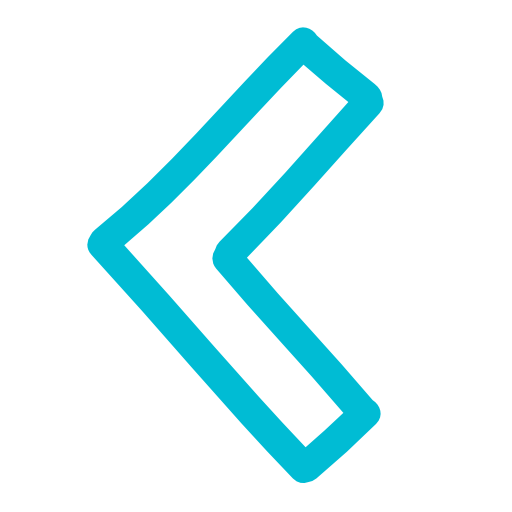
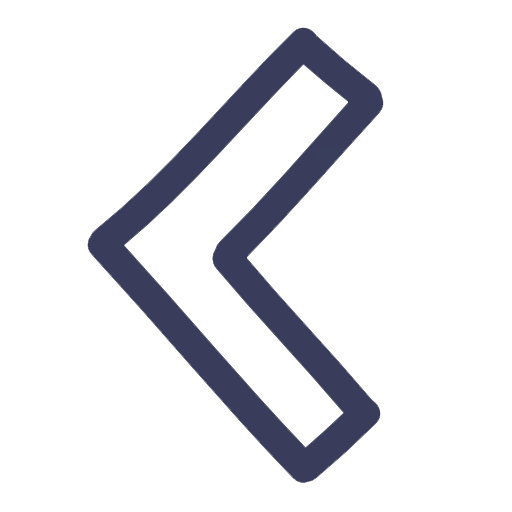
修改页面+改主题色

Changed region(s): [[0.1562, 0.0312, 0.75, 0.9375]]

diff --git a/src/components/Query.vue b/src/components/Query.vue
@@ -122,15 +122,16 @@ export default {
     margin-left: 200px;
     width:80%;
     height:3px;
-    background:rgb(000, 188, 212);
+    background:rgb(051, 069, 091);
   }
 
   #ellipse_query {
+    box-shadow: #666 0px 0px 10px;
     width: 150px;
     height: 150px;
     margin-top: 30px;
     margin-left: 150px;
-    border: 4px solid rgb(000, 188, 212);
+    border: 4px solid rgb(051, 069, 091);
     border-radius: 50%;
   }
 
@@ -152,12 +153,14 @@ export default {
     margin-left: 450px;
     height: 40px;
     width: 60%;
-    color: rgb(000, 188, 212);
+    color: rgb(051, 069, 091);
     font-size: 40px;
     font-family: Roboto;
     margin-top: 30px;
   }
   #table_type_query {
+    background-image: url('../assets/bg3.jpeg');
+    background-size:cover;
     margin-top: 40px;
     margin-left: 100px;
     background-color: white;
@@ -165,9 +168,10 @@ export default {
     height: 600px;
     width: 20%;
     box-shadow: #666 0px 0px 10px;
-    border:  3px solid rgb(000, 188, 212);
+    border:  3px solid rgb(051, 069, 091);
   }
   #tableInfo {
+    background-image: url('../assets/bg1.png');
     margin-top: 40px;
     margin-left: 350px;
     background-color: white;
@@ -175,9 +179,10 @@ export default {
     height: 600px;
     width: 20%;
     box-shadow: #666 0px 0px 10px;
-    border:  3px solid rgb(000, 188, 212);
+    border:  3px solid rgb(051, 069, 091);
   }
   #table_food_query {
+    background-image: url('../assets/bg2.jpeg');
     margin-top: 40px;
     margin-left: 100px;
     background-color: white;
@@ -185,13 +190,14 @@ export default {
     height: 600px;
     width: 20%;
     box-shadow: #666 0px 0px 10px;
-    border:  3px solid rgb(000, 188, 212);
+    border:  3px solid rgb(051, 069, 091);
   }
   #deleteIcon{
     width: 30px;
   }
   #tableMem {
-    color: rgb(000, 188, 212);
+    text-shadow: #666 0px 0px 10px;
+    color: rgb(051, 069, 091);
     font-size: 35px;
     font-family: Roboto;
     margin-top: 50px;
@@ -199,7 +205,8 @@ export default {
     text-decoration: underline;
   }
   #tableId{
-    color: rgb(000, 188, 212);
+    text-shadow: #666 0px 0px 10px;
+    color: rgb(051, 069, 091);
     font-size: 35px;
     font-family: Roboto;
     margin-top: 100px;
@@ -207,7 +214,8 @@ export default {
     text-decoration: underline;
   }
   #tableTime {
-    color: rgb(000, 188, 212);
+    text-shadow: #666 0px 0px 10px;
+    color: rgb(051, 069, 091);
     font-size: 35px;
     font-family: Roboto;
     margin-top: 50px;
@@ -215,7 +223,7 @@ export default {
     text-decoration: underline;
   }
   #tablePhone {
-    color: rgb(000, 188, 212);
+    color: rgb(051, 069, 091);
     font-size: 35px;
     font-family: Roboto;
     margin-top: 50px;
@@ -223,21 +231,24 @@ export default {
     text-decoration: underline;
   }
   #foodInfo {
+    text-shadow: #666 0px 0px 10px;
+    text-decoration: underline;
     float:left;
     margin-top: 40px;
     margin-left: -15px;
     height: 500px;
     width: 100%;
-    color:rgb(000, 188, 212);
+    color:rgb(051, 069, 091);
     font-family: Roboto;
   }
   .foodList {
+    box-shadow: #666 0px 0px 10px;
     font-size: 25px;
     margin-left: 85px;
     width: 70%;
     height: 300px;
     /*box-shadow: #666 0px 0px 5px;*/
-    border:  3px solid rgb(000, 188, 212);
+    border:  3px solid rgb(051, 069, 091);
   }
 
 </style>

diff --git a/src/components/Home.vue b/src/components/Home.vue
@@ -3,7 +3,7 @@
 <template>
     <div id="homePage" v-show="showHome">
         <el-menu theme="dark" :default-active="activeIndex" class="el-menu-home" mode="horizontal">
-            <el-menu-item index="1"><router-link to="/">主页</router-link></el-menu-item>
+            <el-menu-item index="1"><router-link to="/"><p id="topInfo_home">主页</p></router-link></el-menu-item>
             <el-menu-item index="2" :style="{float: 'right'}">
                 <router-link v-show="!user.phone" to="/">登录</router-link>
                 <el-dropdown @command="loginOut">
@@ -185,9 +185,11 @@
         padding-bottom: 30px;
     }
     #topInfo_home {
-        background-color: rgb(000, 188, 212);
-        height:130px;
-        box-shadow: #666 0px 0px 5px
+        color:white;
+        font-size:150%;
+        margin-top: 10px;
+        width:80%;
+        height:80%;
     }
     #h1_home {
         color:white;
@@ -262,8 +264,8 @@
         margin-top:0.5%;
         width:100%;
         height:1%;
-        border:solid 2px #05728a;
-        background:#05728a;
+        border:solid 2px  rgb(051, 069, 091);
+        background: rgb(051, 069, 091);
     }
     #photo-list_home {
         margin-left: 58px;
@@ -283,14 +285,13 @@
         padding-top: 50px;
         width: 40px;
         height:90px;
-
     }
     #left_home {
         float: left;
         padding-left:2px;
     }
     #right_home {
-        margin-top: -170px;
+        margin-top: -180px;
         float: right;
     }
     .pic_home {
@@ -304,15 +305,22 @@
     }
 
     #menu_home {
-        height: 300px;
+        background-image: url('../assets/bg1.png');
+        background-size:cover;
+        height: 450px;
         box-shadow: #666 0px 0px 10px;
     }
-    #homePage, #homeBottom{
-      height: 90px;
-      background-color: rgb(000, 188, 212);
+    #homePage {
+      height: 100px;
+      background-color: rgb(051, 069, 091);
+    }
+    #homeBottom{
+      background-size:cover;
+      height: 100px;
+      background-color: rgb(051, 069, 091);
     }
     #homeBottom {
-        background-color:rgb(000, 188, 255);
+        background-color:rgb(051, 069, 091);
     }
     .homeBottomInfo {
         float:left;
@@ -326,12 +334,13 @@
         float: left;
     }
     .ellipse_home {
+        box-shadow: #666 0px 0px 10px;        
         width: 80%;
         height: 250%;
-        margin-top: 0%;
+        margin-top: 15%;
         margin-bottom: 16px;
         margin-left: 7.5%;
-        border: 4px solid #05728a;
+        border: 4px solid rgb(051, 069, 091);
         border-radius: 50%;
 
     }
@@ -343,7 +352,7 @@
         vertical-align: center;
     }
     #menu__home {
-        background-color:rgb(000, 188, 212);
+        background-color:rgb(051, 069, 091);
         color:white;
         border-radius: 10px;
         width: 70%;
@@ -352,7 +361,7 @@
         margin-left:8%;
     }
     #btn_home {
-        background-color:rgb(000, 188, 255);
+        background-color:rgb(051, 069, 091);
         color:white;
         border-radius: 10px;
         width: 70%;

diff --git a/src/components/Book.vue b/src/components/Book.vue
@@ -6,7 +6,7 @@
     <div>
         <top></top>
     </div>
-
+    <div id="top_image"></div>
     <div id="time">
        <p id="timeTitle">时间</p>
        <img id="calendarIcon" src="../assets/icon/calendar.png" hspace = "5" />
@@ -126,6 +126,11 @@ export default {
     height: 400px;
     /* border: 1px solid blue; */
   }
+  #top_image {
+    background-image: url('../assets/bg3.jpeg');
+    background-size:cover;
+    height: 250px;
+  }
   #space {
      margin-top:10px;
     float: right;
@@ -134,6 +139,7 @@ export default {
     /* border: 2px solid rgb(110, 86, 7); */
   }
   #table {
+    border: 1px solid rgb(051, 069, 091);
     margin-top:10px;
     float: right;
     height: 400px;
@@ -149,7 +155,7 @@ export default {
     margin-left:100px;
     height: 250px;
     width: 20%;
-    border: 1px solid rgb(110, 86, 7);
+    border: 1px solid rgb(051, 069, 091);
     background-color: rgb(252, 252, 252);
     border-radius: 8px;
     -moz-box-shadow: #666 0px 0px 10px;
@@ -161,7 +167,7 @@ export default {
     margin-left:100px;
     height: 250px;
     width: 20%;
-    border: 1px solid rgb(110, 86, 7);
+    border: 1px solid rgb(051, 069, 091);
     background-color: rgb(252, 252, 252);
     border-radius: 8px;
     -moz-box-shadow: #666 0px 0px 10px;
@@ -173,13 +179,14 @@ export default {
     margin-left:100px;
     height: 250px;
     width: 20%;
-    border: 1px solid rgb(110, 86, 7);
+    border: 1px solid rgb(051, 069, 091);
     background-color: rgb(252, 252, 252);
     border-radius: 8px;
     -moz-box-shadow: #666 0px 0px 10px;
     box-shadow: #666 0px 0px 10px;
   }
   #time {
+    border: 1px solid rgb(051, 069, 091);
     margin-top:10px;
     float: left;
     height: 400px;
@@ -208,7 +215,7 @@ export default {
   width: 96%;
 }
   #tableButton1 {
-    background-color:rgb(000, 188, 212);
+    background-color:rgb(051, 069, 091);
     border: none;
     color: white;
     padding: 8px 32px;
@@ -223,7 +230,7 @@ export default {
     box-shadow: #666 0px 0px 10px;
   }
   #tableButton2 {
-    background-color:rgb(000, 188, 212);
+    background-color:rgb(051, 069, 091);
     border: none;
     color: white;
     padding: 8px 32px;

diff --git a/src/components/Food.vue b/src/components/Food.vue
@@ -3,6 +3,7 @@
     <el-menu theme="dark" :default-active="activeIndex" class="el-menu-demo" mode="horizontal">
       <el-menu-item index="1"><router-link to="/home">主页</router-link></el-menu-item>
     </el-menu>
+    <div id="top_image_food"></div>
     <div id="dishes">
       <div class="dish" v-for="item in items" v-bind:key="item.foodId">
         <img class="picture" :src="item.image"/>
@@ -102,6 +103,11 @@ export default {
 #container .el-menu-demo {
   margin-bottom: 15px;
 }
+#top_image_food {
+    background-image: url('../assets/bg5.jpg');
+    background-size:cover;
+    height: 280px;
+  }
 #sidebar {
   float: left;
   height: 400px;
@@ -187,6 +193,7 @@ export default {
   margin-top: 0.5%;
   margin-bottom: 0.5%;
   box-shadow: #666 0px 0px 10px;
+  border: 1px solid rgb(051, 069, 091);
 }
 .iteminfo {
   width: 98%;
@@ -218,7 +225,7 @@ export default {
   margin-right: 5%;
 }
 #tableButton1 {
-    background-color:rgb(000, 188, 212);
+    background-color:rgb(051, 069, 091);
     border: none;
     color: white;
     padding: 8px 32px;
@@ -233,7 +240,7 @@ export default {
     margin-top: 15px;
   }
   #tableButton2 {
-    background-color:rgb(000, 188, 212);
+    background-color:rgb(051, 069, 091);
     border: none;
     color: white;
     padding: 8px 32px;
